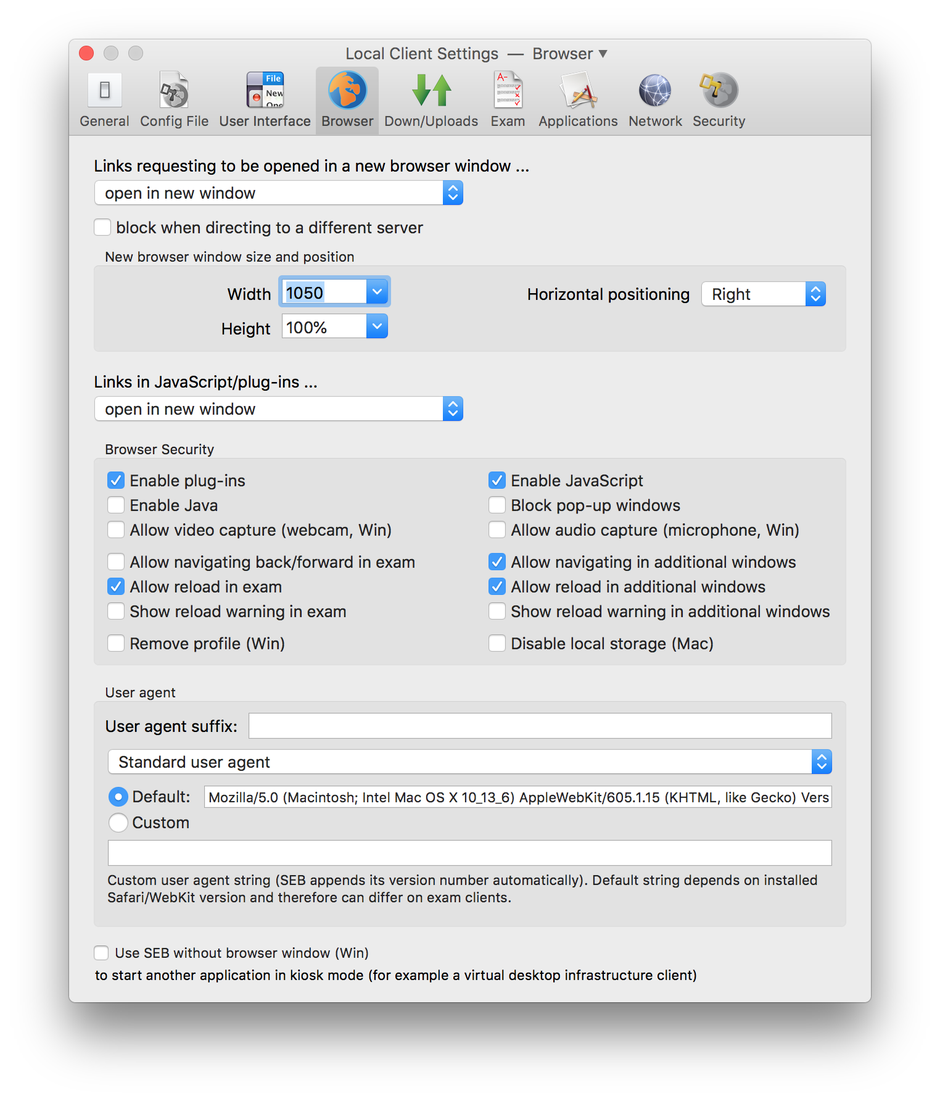
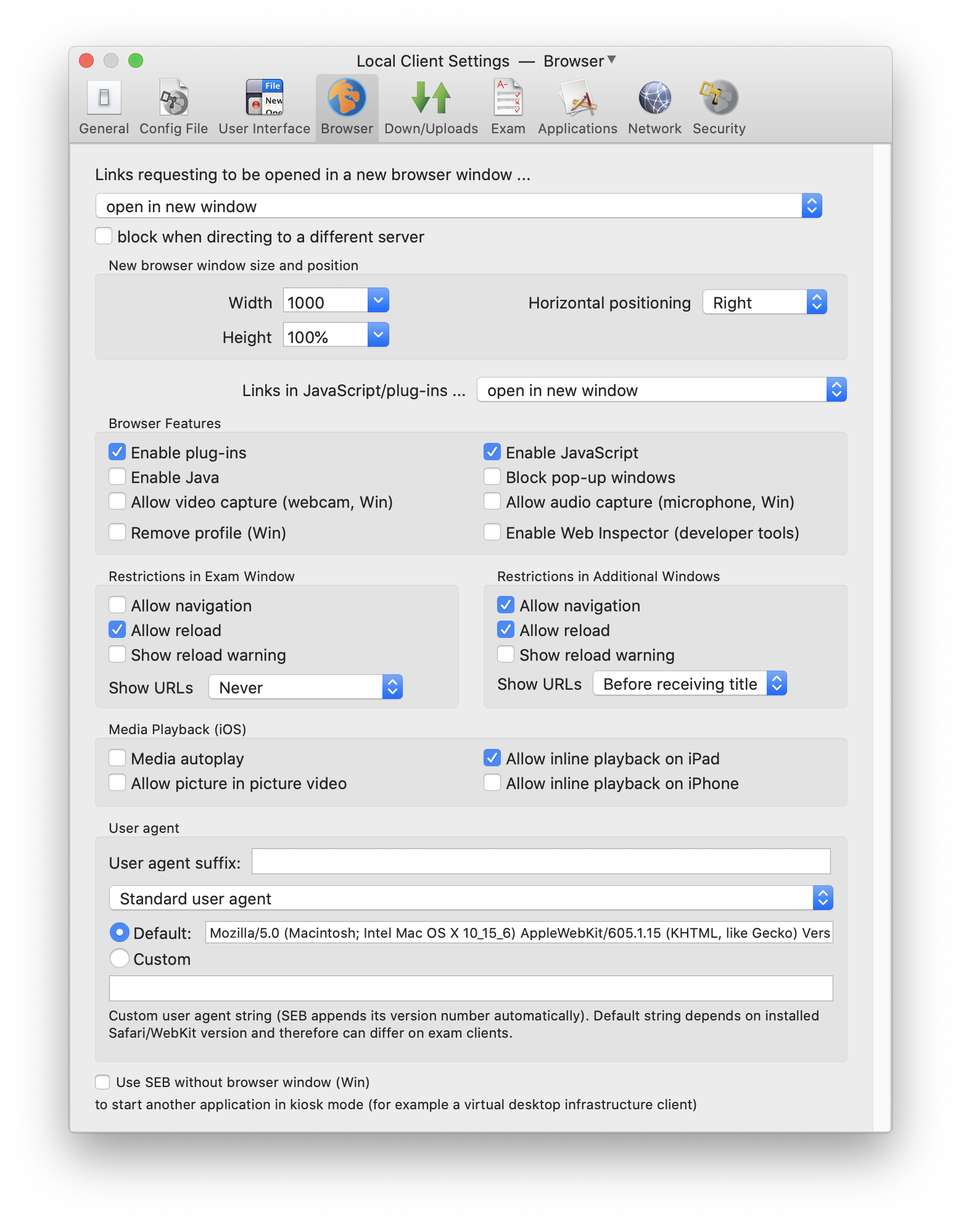
Mostly updated manual for SEB 2.2.1 for macOS, including screen shots.

Changed region(s): [[0.0617, 0.0308, 0.9252, 0.9249], [0.5551, 0.2158, 0.8944, 0.2775], [0.8327, 0.1541, 0.8635, 0.185]]

diff --git a/macosx/mac_usermanual_en.html b/macosx/mac_usermanual_en.html
@@ -250,8 +250,9 @@
 
               <li> <a href="#configuration">Configuration</a>
                 <ul class="nav">
+                  <li><a href="#ChangesIn2.2">Changes in SEB 2.2.1</a></li>
+					
                   <li><a href="#GeneralPane">General Pane</a></li>
-                  
                   <li><a href="#ConfigFilePane">Config File Pane</a>
                     <ul class="nav">
                       <li><a href="#ConfigDeployment">&nbsp;&nbsp;&nbsp;Deploying Settings</a></li>
@@ -304,11 +305,11 @@
 
           <h2 class="page-header sebnavbar-link" id="introduction">
             <a class="anchorjs-link" href="#introduction"></a>
-            Safe Exam Browser 2.1.3 for macOS
+            Safe Exam Browser 2.2.1 for macOS
           </h2>
     
-          <p>Safe Exam Browser – SEB for macOS opens a web browser window without navigation elements and locks the computer into a kiosk mode, which prevents from switching to other applications or quitting SEB untimely.<span class="half_linespace">SEB enables secure exams on unmanaged computers like students' own laptops as well as in managed environments</span>. Currently SEB integrates with the wide spread learning management systems (LMS) Moodle,  ILIAS and OpenOLAT and several non-commercial and commercial exam systems, as for example Inspera Assessment. Generally it can easily be used with most web-based online quiz and e-assessment systems.</p>
-          <p><strong>The following manual explains   how to configure and use SEB for iOS from the perspective of exam administrators.</strong> SEB is a very flexible and modular tool, therefore documentation for examinees on how to use SEB with individual exam setups and the various exam systems it works with should be provided by the institution using SEB or their e-assessment provider. </p>
+          <p>Safe Exam Browser – SEB for macOS opens a web browser window without navigation elements and locks the computer into a kiosk mode, which prevents from switching to other applications or quitting SEB untimely. <span class="half_linespace">SEB enables secure exams on unmanaged computers like students' own laptops as well as in managed environments</span>. Currently SEB integrates with the wide spread learning management systems (LMS) Moodle, OpenOLAT, ILIAS and several non-commercial and commercial exam systems, as for example Inspera Assessment, Dugga, Exam.net or EvaExam. Generally it can easily be used with most web-based online quiz and e-assessment systems.</p>
+          <p><strong>The following manual explains   how to configure and use SEB for macOS from the perspective of exam administrators.</strong> SEB is a very flexible and modular tool, therefore documentation for examinees on how to use SEB with individual exam setups and the various exam systems it works with should be provided by the institution using SEB or their e-assessment provider. </p>
 
         </div>
         <!-- / Document Section --> 
@@ -321,16 +322,16 @@
             Features
           </h3>
           
-          <p>To prevent switching to other applications or interrupting an exam, SEB disables the macOS Dock, the process switcher (Cmd-Tab/Cmd-Shift-Tab), the Apple Menu and various other items in the menu bar, the <span class="quote">Force Quit</span> window (Cmd-Option-Esc), normal reboot (Ctrl-Cmd-Eject), normal shutdown (Ctrl-Option-Cmd-Eject), hiding the application, printing, Exposé, screenshots and the Notification Center. </p>
-          <p>Display and system idle sleep is also prevented while SEB is running. It can also be set whether  users can quit SEB and if it is required to enter a quit password to do so.</p>
+          <p>To prevent switching to other applications or interrupting an exam, SEB disables the macOS Dock, the process switcher (Cmd-Tab/Cmd-Shift-Tab), the Apple Menu and various other items in the menu bar, the <span class="quote">Force Quit</span> window (Cmd-Option-Esc), normal reboot (Ctrl-Cmd-Eject), normal shutdown (Ctrl-Option-Cmd-Eject), hiding the application, printing, Exposé, the Notification Center, screen shots, screen recording, spelling and grammar checking, automatic spelling correction, custom Touch Bar items and typing suggestions. In addition, various third-party applications for communication, screen sharing/remote access and screen recording are blocked. Customized settings for blocking prohibited applications are also possible.</p>
+          <p>Display and system idle sleep is  prevented while SEB is running. It can also be set whether  users can quit SEB and if it is required to enter a quit password to do so.</p>
           <p>Its possible to configure SEB to quit after the exam is submitted without having to enter a quit password by specifying a <span class="quote">quit link</span> and placing this on the summary page displayed by the LMS after submitting the exam.</p>
           <p>In the browser window there is no right mouse (or Ctrl-) click popup window available, links requesting to be opened in a separate window can be set to be blocked generally, to open in the same  browser window or in a new SEB window. Besides that, the browser is supporting Java, Quicktime and Flash content (as long as the required  plugins are installed on the system).  SEB  can also be configured to always use the more secure internal PDF viewer instead of the Acrobat Reader plug-in.</p>
           <p>SEB features an optional dock/task bar displaying an icon for the SEB browser with controls for its open browser windows and widgets. Buttons in the dock for quitting SEB, restarting exam, reloading page and a display for the current time improve usability in exams. Clicking the SEB icon in the dock and holding the left mouse button down or a secondary (right mouse button) click displays a popup menu with all open browser windows, the main browser window is at the bottom. With this menu you can switch between open browser windows.</p>
           <p>It is possible to configure if you want examinees to be able to use the spell and grammar checker and the macOS dictionary lookup feature. Also availability of page and text zoom can be configured.</p>
           <p>SEB detects when it was started in a virtual instead of a native environment and refuses to run. This virtual machine detector hinders manipulating SEB further when used in unmanaged environments.</p>
           <p>SEB also detects attempts to switch the user and displays a lock screen afterwards which needs to be unlocked with the quit/restart password by exam supporters/supervisors.</p>
-          <p>SEB for macOS is based on the WebKit browser engine, which is also used by Safari, Apple Mail and many open source browsers  (in contrast to the Mozilla Firefox/XULRunner/Gecko engine used by SEB for Windows). There might be some small differences  regarding rendering of web pages in those different browser engines, so you should check all functionality of your quiz in SEB for macOS before using it in exams.  </p>
-          <p> SEB for macOS can be used together with additional (third party) applications during an exam. You can download and open files linked in your online exam, edit it in a third party application and then upload the results to your online quiz/LMS again. Currently this is only possible when SEB is used in a separate user account managed by macOS parental controls.</p>
+          <p>SEB for macOS is based on the WebKit browser engine, which is also used by Safari, Apple Mail and many open source browsers  (in contrast to the Mozilla Firefox/Gecko or the Chromium/Blink engine used by SEB for Windows). There might be some small differences  regarding rendering of web pages in those different browser engines, so you should check all functionality of your quiz in SEB for macOS before using it in exams.  </p>
+          <p> SEB for macOS can be used together with additional (third party) applications during an exam. You can download and open files linked in your online exam, edit it in a third party application and then upload the results to your online quiz/LMS again. This is only possible when SEB is used in a separate user account managed by macOS parental controls.</p>
           <p>From version 2.0, encrypted <span class="quote">.seb</span> configuration files are used which allow to individually configure SEB per exam.</p>
           <p>
           Also see the  <a href="../presentations/HowTo_SEB2.0.pdf" target="_blank">how to use SEB 2.0 document</a> explaining the concept behind SEB 2.x and its new features.</p>
@@ -483,7 +484,22 @@
           
           <p>If you apply an opened/edited .seb settings file, then SEB is running in the exam mode, same as if SEB is started opening a .seb config file for starting an exam or if the user loaded a .seb config file for starting an exam from an exam portal page. More information about this you can find in the   <a href="../presentations/HowTo_SEB2.0.pdf" target="_blank">how to use SEB 2.0 document</a> explaining the concept behind SEB 2.x.</p>
           <p>Detail description of all parameters in the preferences window panes follows below. You can also use tool tips (move the mouse pointer over a button, text field or other control in the Preferences window) to get a short explanation for the function of the according setting option.</p>
+
+			
+          <h4 class="seb-section-header sebnavbar-link" id="ChangesIn2.2">
+            <a class="anchorjs-link" href="#ChangesIn2.2"></a>
+            Changes in SEB 2.2.1
+          </h4>
+          <p>SEB 2.2.1 for macOS includes changes which  could  require you to modify your SEB settings:</p>
+<ul id="seblist4">
+          <li><strong>SEB 2.2.1 for macOS uses a different policy to decide if it can be reconfigured when a seb(s) URL is opened and a .seb config file downloaded: </strong>When running in Secure Mode (a quit password is set in the currently active settings), SEB 2.2.1 cannot be reconfigured, even if it's using the persisted client settings. Earlier versions could always be reconfigured when using client settings. If you want to allow reconfiguring SEB by opening a seb(s) URL while running in Secure Mode, then you need to use the &quot;Allow Reconfiguring&quot; and &quot;Reconfiguring Config URL&quot; options in the <a href="#ExamPane">Exam pane</a>. For the same behavior as in previous versions, you can enable &quot;Allow Reconfiguring&quot; and set &quot;Reconfiguring Config URL&quot; to &quot;*&quot; (wildcard symbol, meaning any seb(s) URL or download URL of a .seb config file is allowed to reconfigure SEB) in your SEB client settings. This policy settings for reconfiguring are already used by SEB for iOS and will also be introduced in SEB 3.1 for Windows.           </li>
+            <li><strong>Preset prohibited processes are required to be quit before starting an exam and are automatically added to any config you open with SEB 2.2.1.</strong> This doesn't alter the Config Key hash. The Browser Exam Key hash value is changed, but that key you anyways have to determine by loading the according SEB config file in SEB 2.2.1 and copy-paste the key from the <a href="#ExamPane">Exam pane</a>. You cannot remove those preset prohibited processes, but you can deactivate them individually using their &quot;Active&quot; parameter. You can change other properties of the prohibited process, although not all of these parameters are used by SEB for macOS. See the <a href="#ProhibitedProcessesSection">Applications/Prohibited Processes pane</a>.  </li>
+          <li><strong>New separate Mac setting for the Private Clipboard feature</strong>, <a href="#SecurityPane">Security pane</a> &quot;Enforce private clipboard on Mac&quot; (settings key enablePrivateClipboardMacEnforce), by default enabled. If enabled, then the private clipboard is used, even if the old setting in the <a href="#SecurityPane">Security pane</a> &quot;Use private clipboard&quot; is disabled. The reason for the separate Mac setting is, that enabling private clipboard in the Windows version sometimes causes web compatibility issues (which isn't the case in the Mac version). If you intentionally disabled &quot;Use private clipboard&quot; (key enablePrivateClipboard=false) for the Mac version, then you have to set enablePrivateClipboardMacEnforce=false in addition.</li>
+          <li><strong>New separate SEB for macOS settings for allowing screen capture/recording</strong>, window capture and to use the legacy method for blocking screen shots. SEB 2.2.1 for macOS is no longer using the old setting &quot;Enable screen capture&quot; which corresponded with the setting &quot;Enable Print Screen&quot; in Windows. Instead, these new settings allow to control access to the screen while SEB is running in a gradual way. The new setting &quot;Allow screen capture/recording&quot; (key allowScreenCapture) controls a system process, which since macOS 10.14 Mojave is used for the macOS screen recording feature (cmd+shift+5) and for screen shots. The new setting &quot;Allow window capture (screen shots)&quot; (key allowWindowCapture) controls if other processes are able to read the contents of the windows displayed by SEB. Depending which system APIs are used to read window or screen contents, those settings have a different effect: If allowScreenCapture=true and allowWindowCapture=false, then macOS screen shots using cmd-shift-3 and -4 can still be taken, but don't show SEB's windows (only the desktop background). On screen recording videos taken with cmd-shift-5, SEB's windows will still be visible, unless allowScreenCapture is set to false. When the new setting &quot;Block screen shots (Legacy)&quot; (key blockScreenShotsLegacy) is enabled, then SEB uses the method to redirect and delete screen shots which had to be used with macOS 10.9 and older. Those separate settings may allow to use SEB with specific remote proctoring solutions which need access to the screen and SEB's window contents.</li>
+          <li><strong>New SEB for macOS setting &quot;Enforce blocking screen sharing on Mac&quot;</strong> (key screenSharingMacEnforceBlocked, default value true/enabled), which overrides the original screen sharing setting &quot;Allow (network) screen sharing&quot; (key allowScreenSharing) on Mac clients. This allows for example SEB for Windows to be used in Windows remote sessions (RDP), while still blocking VNC-based macOS screen sharing and remote management on Mac SEB clients. </li>
+          </ul>
           
+			
           <h4 class="seb-section-header sebnavbar-link" id="GeneralPane">
             <a class="anchorjs-link" href="#GeneralPane"></a>
             Settings in the General Pane
@@ -571,7 +587,7 @@
           </h4>
           
           <div class="mac_prefs_screenshot">
-            <img class="img-responsive" src="images/SEB_PreferencesUserInterface-2.0-en.png" width="762" alt="SEB Preferences Window Appearance Pane" />
+            <img class="img-responsive" src="images/SEB_PreferencesUserInterface-2.0-en.png" width="779" alt="SEB Preferences Window Appearance Pane" />
           </div>
           
           <ul id="seblist">
@@ -623,7 +639,7 @@
           </h4>
           
           <div class="mac_prefs_screenshot">
-            <img class="img-responsive" src="images/SEB_PreferencesBrowser-2.0-en.png" width="762" alt="SEB Preferences Window Browser Pane" />
+            <img class="img-responsive" src="images/SEB_PreferencesBrowser-2.0-en.png" width="779" alt="SEB Preferences Window Browser Pane" />
           </div>
           
           <ul id="seblist">
@@ -717,7 +733,7 @@
           </h4>
           
           <div class="mac_prefs_screenshot">
-            <img class="img-responsive" src="images/SEB_PreferencesExam-2.0-en.png" width="762" alt="SEB Preferences Window Exam Pane" />
+            <img class="img-responsive" src="images/SEB_PreferencesExam-2.0-en.png" width="779" alt="SEB Preferences Window Exam Pane" />
           </div>
           
           <ul id="seblist">
@@ -747,7 +763,7 @@
           </h5>
           
           <p>Third party applications and processes which are permitted to run during an exam. Permitted applications show up in the application chooser, they can be used during an exam in addition to the SEB browser. </p>
-          <p><strong>Using permitted processes is not yet functional in SEB  for macOS</strong>. You can define and edit permitted processes for SEB for Windows here.</p>
+          <p><strong>Using permitted processes is not supported in SEB  for macOS</strong>. You can define and edit permitted processes for SEB for Windows here.</p>
           
           <div class="mac_prefs_screenshot">
             <img class="img-responsive" src="images/SEB_PreferencesApplications-PermittedProcesses-2.0-en.png" width="762" alt="SEB Preferences Window Applications Pane, Permitted Processes Tab" />
@@ -795,10 +811,12 @@
             Prohibited Processes Section
           </h5>
       
-          <p>List of processes which are prohibited to run during an exam  when <span class="quote">monitor processes</span> is enabled. This prohibited list of processes makes sense because SEB  usually allows to run system processes (SEB for macOS allows all processes and applications signed by Apple to run), but some of them might not be wanted during an exam. With prohibited processes you can prevent some specific background processes and applications from running together with SEB. Use this with care, test if the system continues to run safely when the prohibited processes are killed by SEB.</p>
-          
-          <p><strong>Using prohibited processes is not yet functional in SEB 2.1.3 for macOS</strong>. You can define and edit permitted processes for the Windows version of SEB here.</p>
-          
+          <p>List of processes which are prohibited to run during an exam.  With prohibited processes you can prevent some specific background processes and applications from running together with SEB. Since SEB 2.2.1 for macOS, this list contains preset prohibited processes, which are required to be quit before starting an exam and are automatically added to any config you open with SEB.          You cannot remove those preset prohibited processes, but you can deactivate them individually using their &quot;Active&quot; parameter.  You can change other properties of the prohibited process, although not all of these parameters are used by SEB for macOS, currently only &quot;Active&quot;, &quot;Executable&quot;, &quot;Identifier&quot;, &quot;OS&quot;, &quot;Force quit&quot; and &quot;Description&quot; are used. You can't change &quot;Executable&quot; or &quot;Identifier&quot;, if you do so, a new prohibited process entry is created internally (and visible next time you open those settings). </p>
+          <p>There are two kinds of processes: <strong>Applications</strong> with a <strong>Bundle Identifier</strong>, which follows the reverse domain notation (for example <em>org.safeexambrowser.Safe-Exam-Browser</em>). SEB uses the Identifier parameter to detect those Application processes. <strong>BSD processes</strong> don't have a Bundle Identifier, they are only detected using the <strong>Executable</strong> property (process name). </p>
+          <p>If you want to add prohibited processes to your settings, you can use the Activity Monitor macOS app: Select a process, press the info button (or cmd-I) and press the &quot;Sample&quot; button. In the sample output, you can identify the process name (SEB property &quot;Executable&quot;, which can differ from the localized application name displayed by macOS in the Finder, Dock and Activity Monitor process name list. If the sample shows an &quot;Identifier&quot; in reverse domain notation (and not the identical string as the &quot;Process&quot; entry), then this process is an application with a Bundle Identifier and you should enter this bundle ID as &quot;Identifier&quot; in SEB's settings if you create a prohibited process. If &quot;Identifier&quot; from the sample output isn't in reverse domain notation, don't enter anything in the &quot;Identifier&quot; field in SEB's prohibited process settings, only enter the process name in &quot;Executable&quot;.</p>
+          <p>Only enable the &quot;Force quit&quot; parameter for prohibited processes in SEB if you are sure that student's won't loose unsaved documents if the process is terminated without a warning when starting SEB. Usually &quot;Force quit&quot; should not be used with applications: When &quot;Force quit&quot; is disabled, SEB will send a regular quit command to the application. Most applications will then either auto-save unsaved changes in open documents or ask the user if the document should be saved before quitting.</p>
+          <p> By default, when the SEB setting &quot;Attempt to quit prohibited applications&quot; is enabled, then SEB tries to quit all running prohibited applications in a &quot;nice&quot; way, allowing them to save changes to open documents. If you disable this setting, then the user first has to confirm SEB trying to quit those running prohibited applications even in this &quot;nice&quot; way. <br>
+            BSD processes cannot be &quot;nicely&quot; quit, users either have to manually quit or disable them or use the &quot;Force Quit&quot; button displayed in the list of running prohibited processes displayed when SEB is starting. Please note that macOS restarts some background (daemon) processes automatically if they are force terminated. Those processes might have to be uninstalled (or temporarily deactivated using the command line in Terminal, as explained in <a href="https://serverfault.com/questions/194832/how-to-start-stop-restart-launchd-services-from-the-command-line" target="_blank">this external article</a>).</p>
           <div class="mac_prefs_screenshot">
             <img class="img-responsive" src="images/SEB_PreferencesApplications-ProhibitedProcesses-2.0-en.png" width="762" alt="SEB Preferences Window Applications Pane, Prohibited Processes Tab" />
           </div>
@@ -815,7 +833,7 @@
             <li><span class="quote">Executable</span>: Process name, usually the filename of the executable.</li>
             <li><span class="quote">Description</span>: Optional, should explain what kind of process this is, because this might not be obvious only from the executable's name.</li>
             <li><span class="quote">OS</span>: Indicates on which operating system SEB should watch for the prohibited process  (currently only <span class="quote">Win</span> works).</li>
-            <li><span class="quote">Identifier:</span> String of the process identifier in reverse domain notation (Mac) or the string or substring of the main window title of a process which doesn't have a MainWindow handle (Win), this is usually the case with Java applications (use for example &quot;OpenOffice&quot; for OpenOffice Calc). </li>
+            <li><span class="quote">Identifier:</span> Bundle Identifier string of the process  in reverse domain notation (Mac) or the string or substring of the main window title of a process which doesn't have a MainWindow handle (Win), this is usually the case with Java applications (use for example &quot;OpenOffice&quot; for OpenOffice Calc). </li>
             <!--<li><span class="quote">User</span><br />
               Username  under which this process is running.  If no user is indicated, then the process is killed regardless under which user it's running. Instead of this identifier also check box current user can be used. <strong>Not yet available in SEB 2.0.</strong></li>
             <li><span class="quote">Current user</span><br />
@@ -823,6 +841,7 @@
             <li><span class="quote">Force quit</span>: Indicates whether an application/process may be terminated in a not-nice way, what may cause data loss if the application had unsaved data in memory or was just writing to a persistent memory/drive. If this application is safe to be terminated anytime, then enabling this setting  helps to avoid bothering users: Because if this setting is disabled and the application is running when SEB is started, then an alert/dialogue window is displayed to ask the user to quit this prohibited application together with  permitted applications and to restart SEB afterwards (or to let SEB terminate the applications risking that there could be data loss).<br />
               Disabling this setting  does not mean that processes are not killed: Depending on the platform's capabilities, SEB first tries to terminate prohibited processes nicely or asking the user to do it themselves, if this doesn't work then it terminates them anyways (as long as <em>monitor processes</em> is enabled). But enabling <em>Force quit</em> will speed up this process.<br />
               This flag should not be set for macOS applications which allow to be terminated nicely (they are anyways automatically terminated, without asking the user).</li>
+            <li><span class="quote">Ignore in AAC</span>: When using the  AAC (Autonomous Assessment Configuration or simpler Assessment Mode) kiosk mode which prevents network and screen access for other processes, ignore this prohibited process. AAC will be available in SEB 2.3 for macOS when running on macOS Catalina 10.15.4 or newer. When this macOS built-in single app mode is used, terminating most processes is unnecessary.</li>
               <!--
             <li><span class="quote">Code Signatures</span>: Displays detail information about the code signatures which allow to undoubtedly identify the process or application. To cover different versions of a process binary/application, multiple signatures can be added. This isn't necessary if the process binaries/applications are signed with a trusted signature (on OS X by Apple), because the signature identifies an application independently of the program version. Also you can generate code signatures here.</li> -->
           </ul>

diff --git a/ios/ios_usermanual_en.html b/ios/ios_usermanual_en.html
@@ -295,11 +295,11 @@
 
           <h2 class="page-header sebnavbar-link" id="introduction">
             <a class="anchorjs-link" href="#introduction"></a>
-            SafeExamBrowser 2.1.14 for iOS
+            SafeExamBrowser 2.1.16 for iOS
           </h2>
     
-          <p><strong>This manual is currently being updated for SEB 2.1.14.</strong></p>
-          <p>SafeExamBrowser (SEB) is a secure kiosk web browser environment used to carry out e-assessments that run on exam servers. SEB opens a web browser without an address and search bar, loads a pre-configured webpage and locks an iPad (or iPhone or iPod Touch) into a single app kiosk mode. This mode prevents students from switching to other apps, accessing websites and communicating with other students during an exam. SEB enables secure exams on unmanaged iOS devices like students' own iPads as well as on iOS devices owned and managed by an institution. SEB doesn't use a centralized server or cloud service; it can be configured with an API, config files and config links. It can be used with most web-based quiz and e-assessment systems. For improved security and usability, some exam systems provide additional built-in support for SEB. Currently, SEB integrates especially well with learning management systems (LMS) such as Moodle, ILIAS and OpenOLAT and with several non-commercial and commercial exam systems, such as Inspera Assessment.</p>
+          <p><strong>This manual is currently being updated for SEB 2.1.16.</strong></p>
+          <p>SafeExamBrowser (SEB) is a secure kiosk web browser environment used to carry out e-assessments that run on exam servers. SEB opens a web browser without an address and search bar, loads a pre-configured webpage and locks an iPad (or iPhone or iPod Touch) into a single app kiosk mode. This mode prevents students from switching to other apps, accessing websites and communicating with other students during an exam. SEB enables secure exams on unmanaged iOS devices like students' own iPads as well as on iOS devices owned and managed by an institution. SEB doesn't use a centralized server or cloud service; it can be configured with an API, config files and config links. It can be used with most web-based quiz and e-assessment systems. For improved security and usability, some exam systems provide additional built-in support for SEB. Currently, SEB integrates especially well with learning management systems (LMS) such as Moodle, OpenOLAT, ILIAS and several non-commercial and commercial exam systems, as for example Inspera Assessment, Dugga, Exam.net or EvaExam.</p>
           <p><strong>The following manual explains how to configure and use SEB for iOS from the perspective of exam administrators.</strong> SEB is a very flexible and modular tool, therefore documentation for examinees on how to use SEB with individual exam setups and the various exam systems it works with should be provided by the institution using SEB or their e-assessment provider.<br />
           </p>
 
